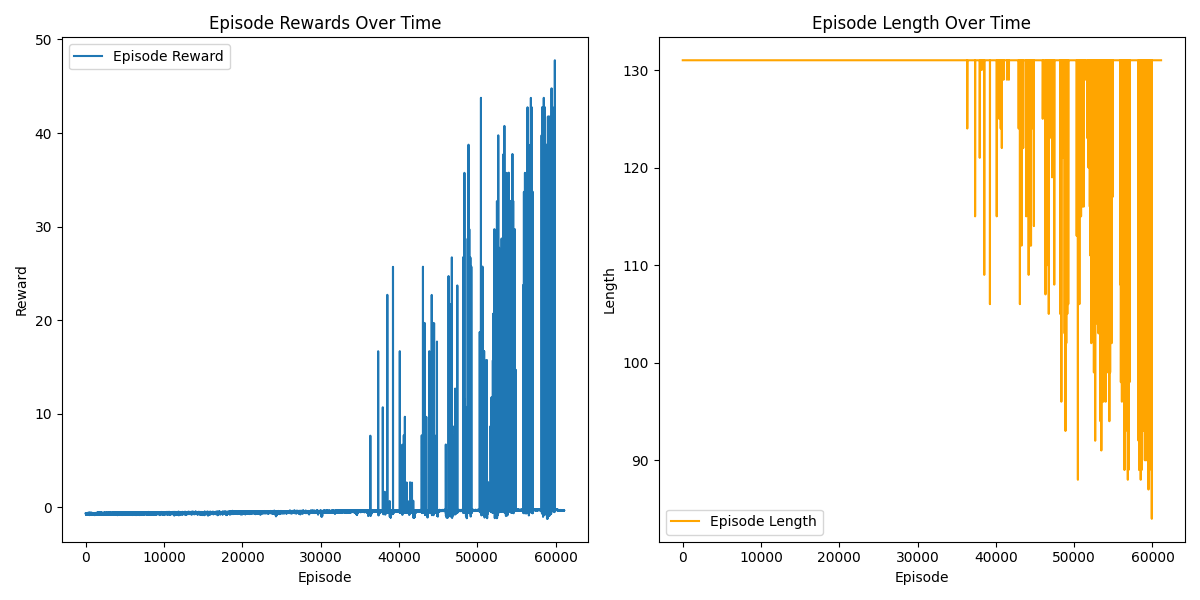
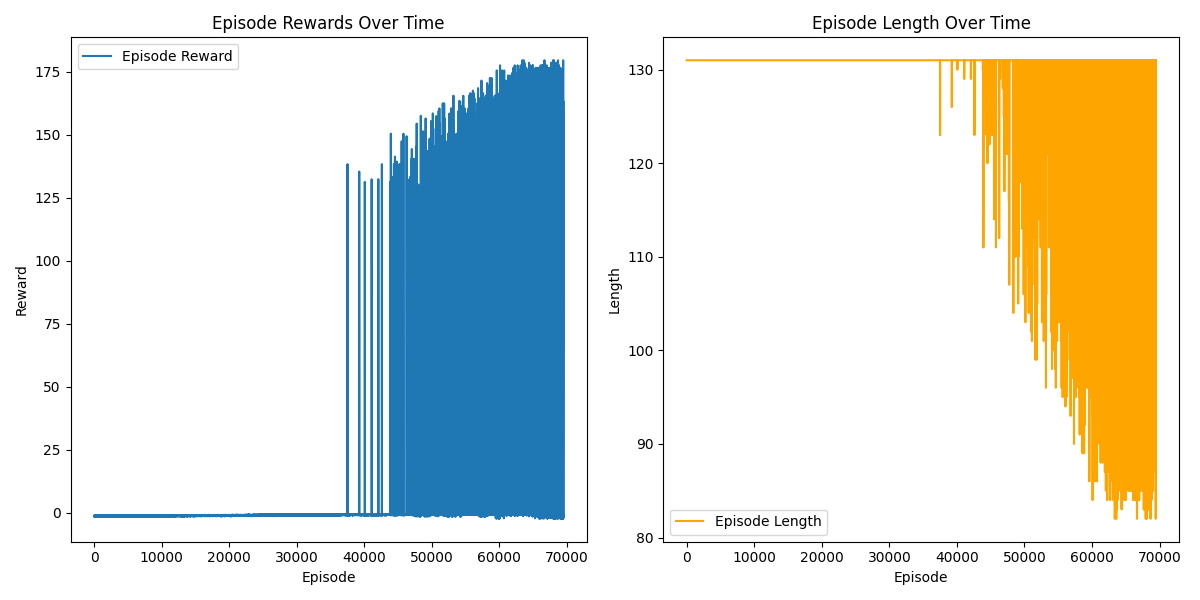
with this strong condition, RL seems not to be effective

diff --git a/scripts/fixed_target_dqn_strong_v1.py b/scripts/fixed_target_dqn_strong_v1.py
@@ -82,7 +82,7 @@ class QuantumCompilerEnv(gym.Env):
         if distance < (1 - self.tolerance):
             reward = (L - n) + 1
         else:
-            reward = -distance / L
+            reward = - distance / L
         return reward
 
     def _check_done(self):
@@ -146,7 +146,7 @@ class PlottingCallback(BaseCallback):
             plt.savefig(os.path.join(self.save_path, "dqn_strong_v1.png"))
         plt.close()
 
-def evaluate_agent(model, env, num_episodes=1):
+def evaluate_agent(model, env, num_episodes=10):
     success_count = 0
     for _ in range(num_episodes):
         obs, _ = env.reset()
@@ -181,7 +181,7 @@ def evaluate_agent(model, env, num_episodes=1):
 
 
 if __name__ == '__main__':
-    env = QuantumCompilerEnv(gate_set=gate_matrices, tolerance=0.9)
+    env = QuantumCompilerEnv(gate_set=gate_matrices, tolerance=0.99)
     env = Monitor(env)
     model = DQN(
         'MlpPolicy',
@@ -194,15 +194,15 @@ if __name__ == '__main__':
         exploration_final_eps=0.05,
         # gamma= 0.99976,
         exploration_fraction=0.99976, 
-        learning_starts=5000,
-        target_update_interval=2000,
-        buffer_size=10000,
+        learning_starts=500000,
+        target_update_interval=20000,
+        buffer_size=100000,
         verbose=1,
         device='cuda',  # Change to 'cpu' if not using GPU
     )
     # Define the custom plotting callback
     plotting_callback = PlottingCallback(save_path='./data')
-    model.learn(total_timesteps=8000000, log_interval=100, callback=plotting_callback)
+    model.learn(total_timesteps=10000000, log_interval=100, callback=plotting_callback)
     
     success_rate = evaluate_agent(model, env)
     print(f'Success rate: {success_rate * 100:.2f}%')
